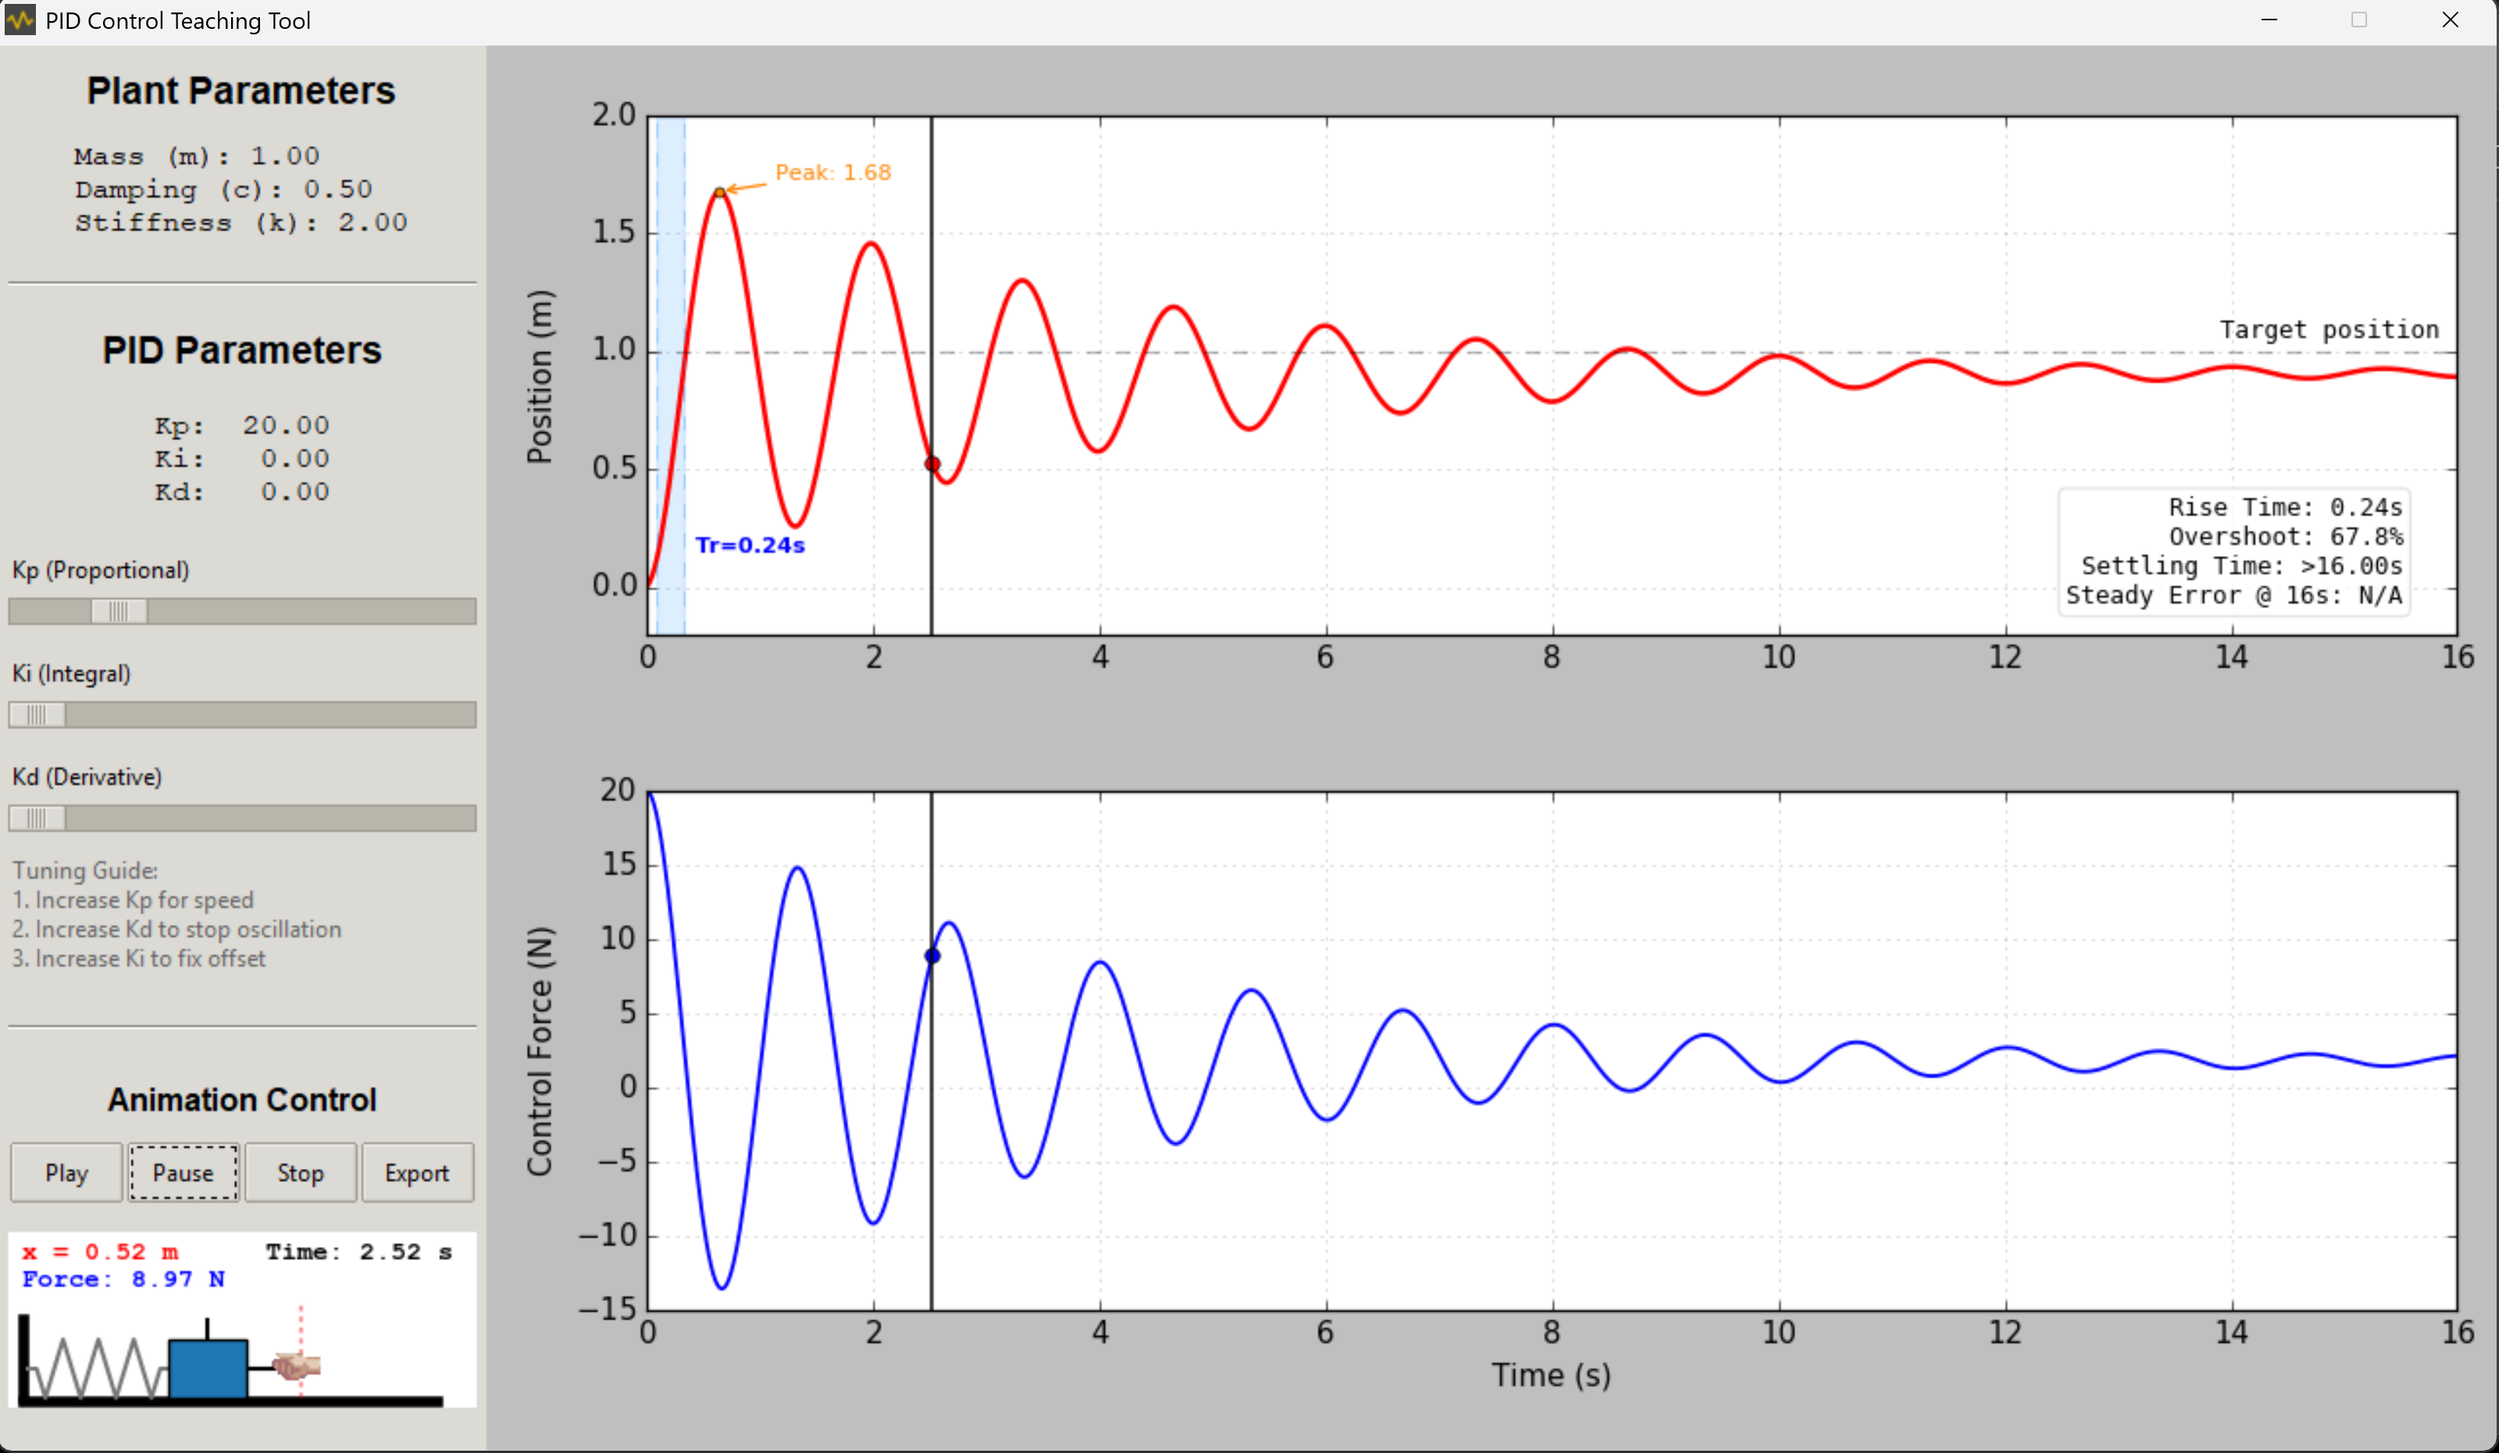
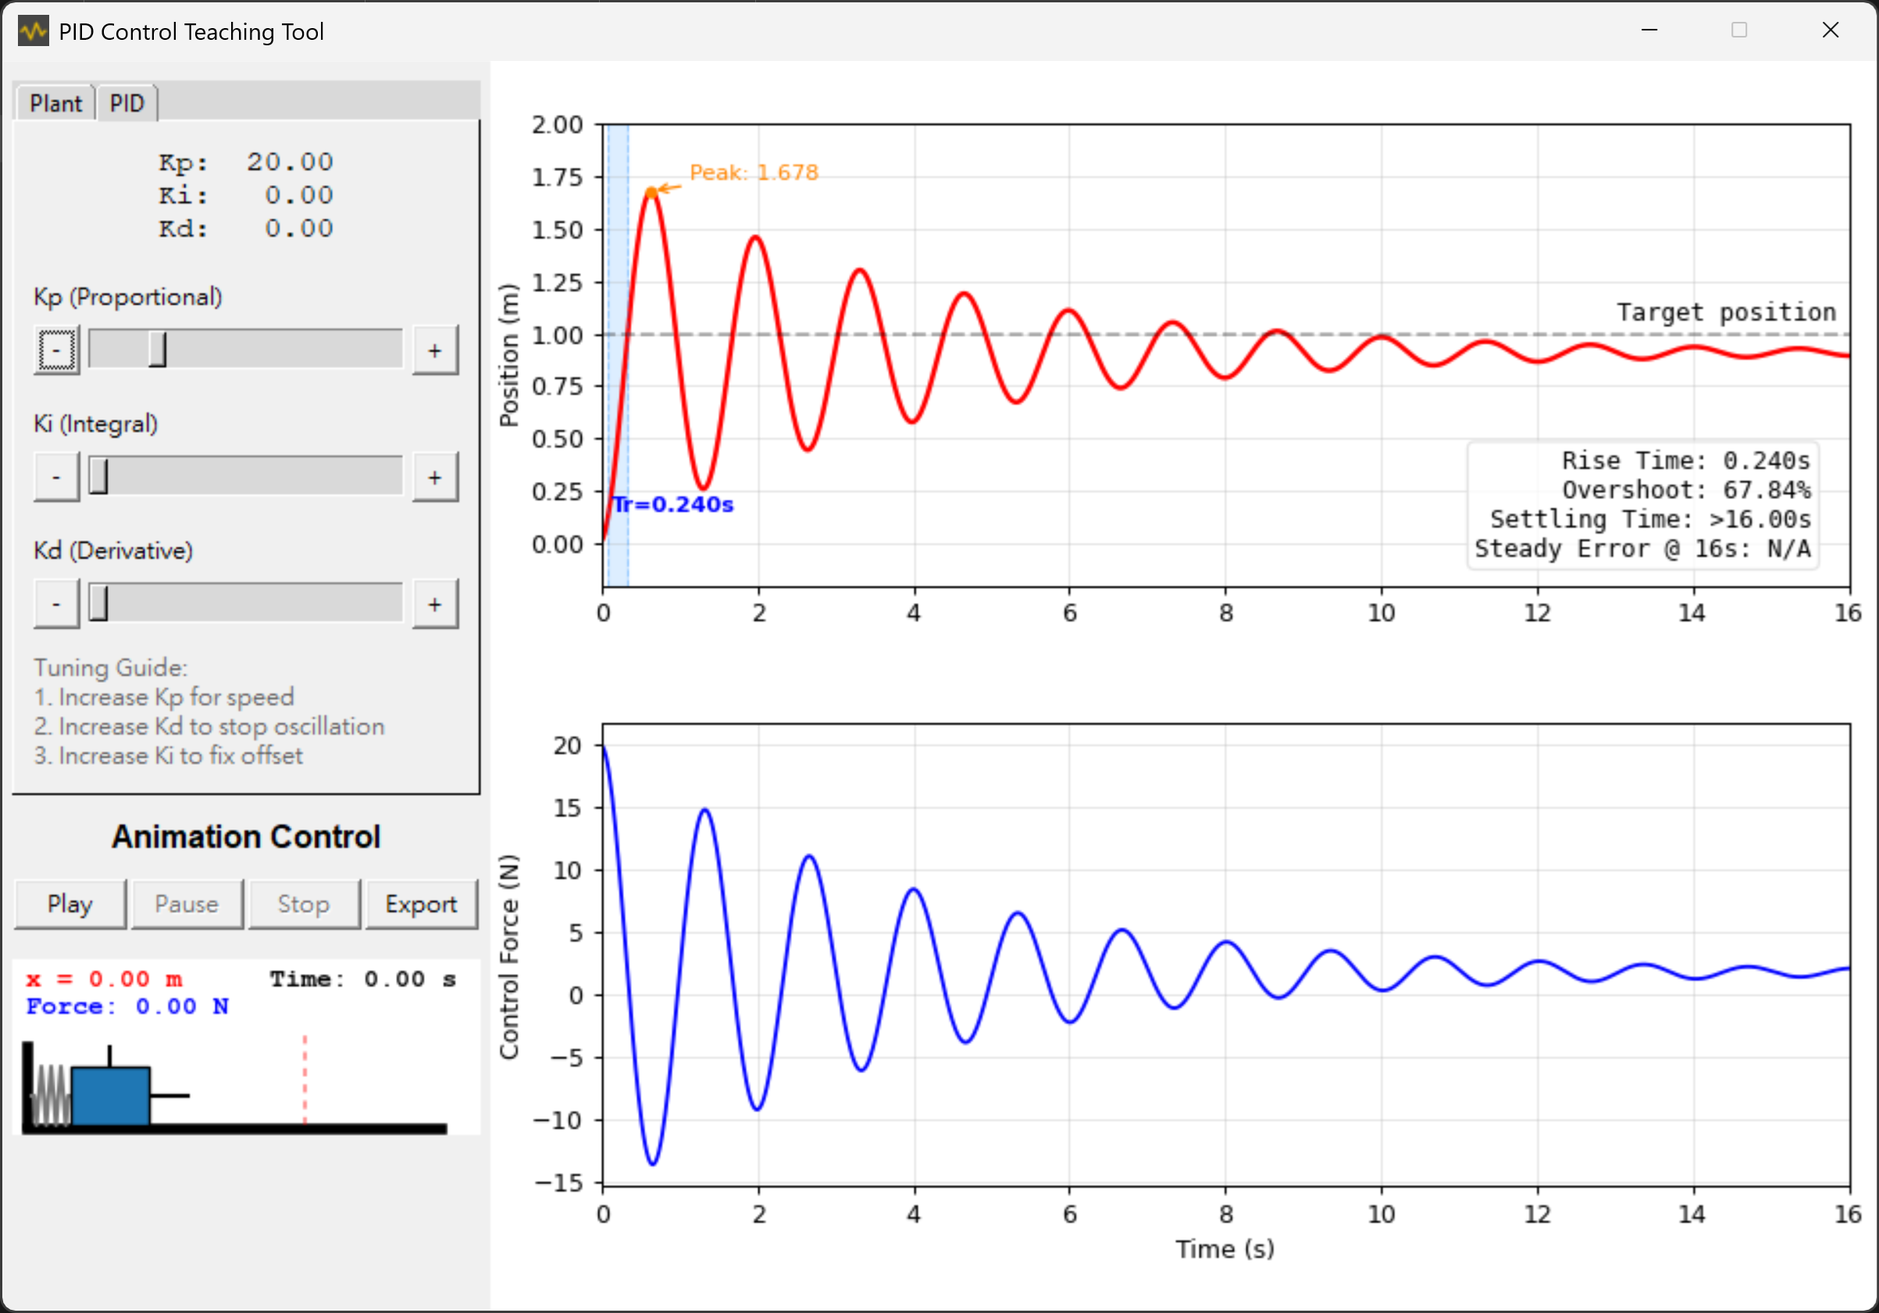
describe usage and test mode, add Updates section
docs: describe usage and test mode, add Updates section
Point Run at the Releases exe, add a How to use section (PID / Plant
tabs, animation buttons and GIF export, Ctrl+F2 test mode, settings
file), widen the tests/ layout entry to the GUI tests and the smoke
script, document how to run the smoke script, and start the Updates
list with v2.0.0.

diff --git a/README.md b/README.md
@@ -13,9 +13,26 @@ animation update live. The animation can be exported as a GIF.
 
 ## Run
 
+Download `PID.exe` from Releases, or from source:
+
 ```
 py -3 PIDTeachingAid_GUI.py
 ```
+
+## How to use
+
+- **PID tab**: drag Kp / Ki / Kd or nudge them with the -/+ buttons (1 % of
+  the range per click). The charts, the metrics and the parameter card
+  redraw on every change.
+- **Plant tab**: the mass-spring-damper values, m = 1, c = 0.5, k = 2.
+- **Play / Pause / Stop** run the response animation; **Export** saves it as
+  a GIF with a parameter card.
+- **Ctrl+F2** toggles test mode: the charts overlay the continuous-time
+  closed-loop theory (dashed green), the Plant tab reveals m / c / k sliders
+  (m 0.1-5, c 0-5, k 0-10), and exports carry no watermark. Turning it off
+  restores m = 1, c = 0.5, k = 2.
+- Gains and the mode are saved to `%TEMP%\PIDTeachingAid.txt` and restored
+  on the next launch.
 
 ## Project layout
 
@@ -27,13 +44,19 @@ py -3 PIDTeachingAid_GUI.py
 | `animPanel.py` | Spring-mass animation and the GIF exporter |
 | `boxBase.py` | Reusable widgets (SliderBox, ToolTip) |
 | `functions.py` | Small helpers (fonts, resource paths) |
-| `tests/` | Automated tests for the computation layer |
+| `tests/` | Automated tests (simulation, DPI regression, test-mode GUI) and a manual smoke script |
 | `legacy/` | The original Python 2 versions, kept for reference |
 
 ## Test
 
 ```
 py -3 -m unittest discover tests
+```
+
+The GUI smoke test opens a window for a few seconds and prints `SMOKE-OK`:
+
+```
+py -3 tests/manual_smoke_gui.py
 ```
 
 ## Pack the exe
@@ -43,3 +66,7 @@ PyInstaller is required. Run `make.bat`, or:
 ```
 py -3 -m PyInstaller PID.spec
 ```
+
+## Updates
+
+- v2.0.0: Python 3.10 rewrite in modules, Plant / PID tabs, Ctrl+F2 test mode (theory overlay, plant sliders, watermark-free export), automated tests.
